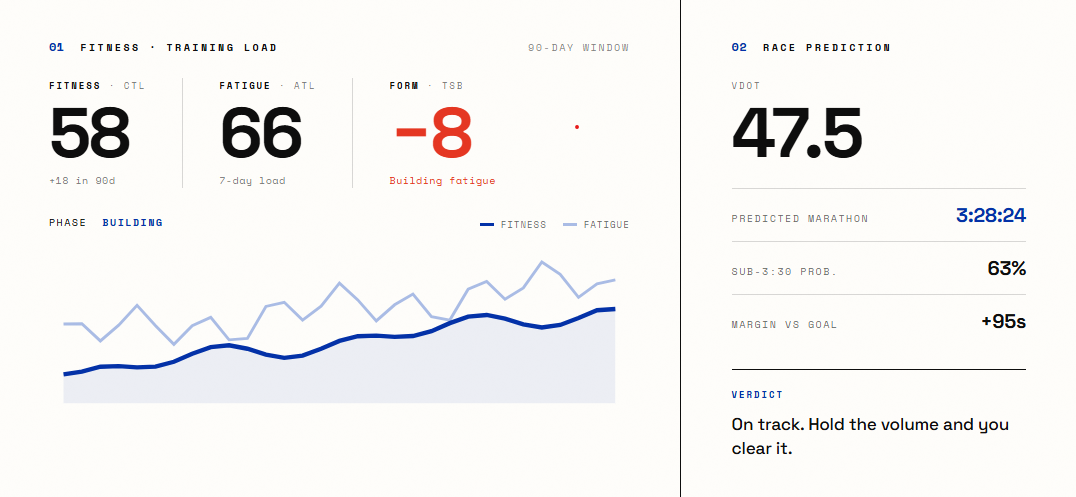
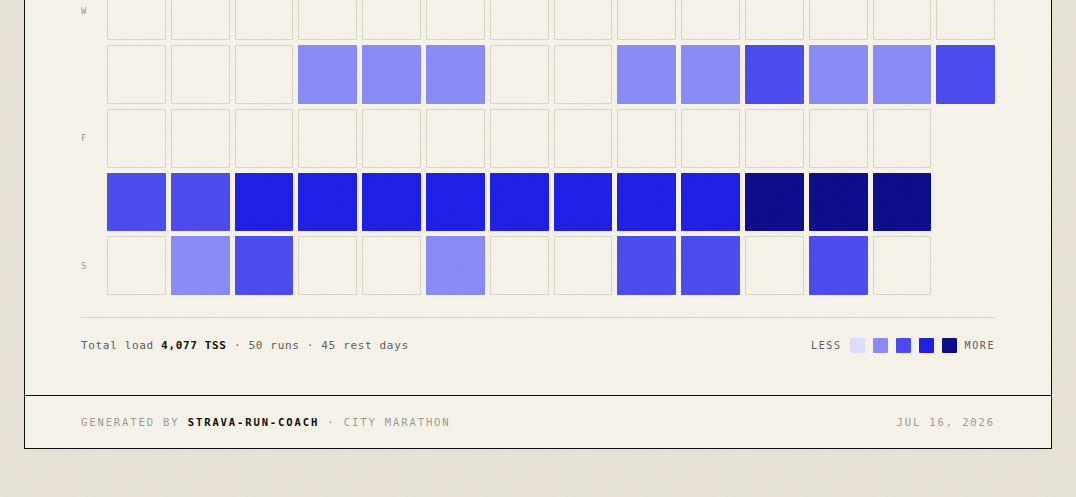
Reskin the dashboard to the Yves Klein Blue design-system tokens
Swap the example theme to the canonical token values from the athlete's
design system: IKB ultramarine #1D1DE6 (was #002FA7), warm riso paper
#EFEBDE/#F6F3EA/#E7E3D6, ink #0B0B0C, flame accent #F0400C (kept to ~5%
of the surface: the active-race dot, negative TSB, the phase marker), tint
#DEDEFB, and a five-step IKB heatmap ramp (100 -> 900). Display font
becomes Archivo (the system's grotesque), mono stays Space Mono; both stay
Google-hosted with system fallbacks so the file keeps degrading gracefully
offline.

The dashboard claimed "every colour is driven by config.theme()" but
carried 34 hardcoded rgba ink literals. Those now flow through three new
optional theme keys — ink_soft/ink_faint/hairline — with token defaults in
_theme_vars(), so an existing config.json without them keeps rendering.
No schema bump; config validation is untouched.

Also fixes a real layout bug the reshoot exposed: a 3-digit countdown
(100+ days out) overflowed the ultramarine panel at 140px; the numeral now
drops to a wide-count size the generator picks by digit count.

docs/img screenshots regenerated from sample data at the original crop
dimensions. New tests pin the contract: no rgba ink literals, no retired
hexes in emitted CSS, back-compat for legacy theme dicts.

Claude-Session: https://claude.ai/code/session_01MjFmtAetsN6RdH7ushYkuN

diff --git a/dashboard.py b/dashboard.py
@@ -5,11 +5,14 @@ external JS. The only external reference is the Google Fonts <link> for the
 display + mono typefaces (with system fallbacks). Charts are pure CSS or inline
 SVG. Open in any browser.
 
-Design: an editorial "International Klein Blue / cobalt" poster. Warm off-white
-ground, full-height cobalt countdown panel, oversized display numerals, mono
-eyebrow labels with section index numbers (01..07), hairline rules, a cobalt
-monochrome TSS heatmap, CSS bar charts, and inline-SVG line chart + probability
-ring. Every colour + font is driven by config.theme().
+Design: the Yves Klein Blue design system rendered as an editorial poster —
+IKB ultramarine (#1D1DE6) on warm riso-paper stock, near-black ink, a flame
+accent used at ~5%, hard edges and hairline rules (no soft shadows, no
+motion). Full-height ultramarine countdown panel, oversized display numerals
+(Archivo), mono eyebrow labels with section index numbers (01..07), an IKB
+monochrome TSS heatmap, CSS bar charts, and inline-SVG line chart +
+probability ring. Every colour + font is driven by config.theme(); the
+example values are the design system's tokens verbatim.
 
 Sections, in order:
   TOPBAR
@@ -79,16 +82,26 @@ def _signed(n: int, unit: str = "") -> str:
 
 
 def _theme_vars(t: dict) -> str:
-    """Build the :root CSS block from config.theme()."""
+    """Build the :root CSS block from config.theme().
+
+    Values default from config.example.json's Yves Klein Blue design-system
+    tokens (IKB ultramarine / warm paper / ink / flame accent). The three
+    ink/hairline shades are optional keys with token defaults, so a
+    pre-existing config.json without them keeps rendering unchanged.
+    """
     heat = t["heatmap"]
+    ink2 = t.get("ink_soft", "#5C5C5E")    # ds --ink-500: secondary text
+    ink3 = t.get("ink_faint", "#9A9A96")   # ds --ink-300: muted labels
+    hair = t.get("hairline", "#D9D5C7")    # ds --paper-200: hairline rules
     return (
         ":root{\n"
         f"  --klein:{t['klein']}; --klein-br:{t['klein_bright']};\n"
         f"  --paper:{t['paper']}; --paper-lt:{t['paper_light']}; --paper-dk:{t['paper_dark']};\n"
         f"  --ink:{t['ink']}; --verm:{t['vermilion']}; --white:{t['white']};\n"
+        f"  --ink-2:{ink2}; --ink-3:{ink3}; --hair:{hair};\n"
         f"  --c1:{heat[0]}; --c2:{heat[1]}; --c3:{heat[2]}; --c4:{heat[3]}; --c5:{heat[4]};\n"
         f"  --tint:{t['tint']};\n"
-        "  --rule:var(--ink); --rule-lt:rgba(10,10,10,.16);\n"
+        "  --rule:var(--ink); --rule-lt:var(--hair); --hair-inv:rgba(255,255,255,.28);\n"
         "}"
     )
 
@@ -123,47 +136,49 @@ body::before{{
 .eyebrow{{display:flex; align-items:baseline; gap:18px; margin-bottom:26px}}
 .eyebrow .idx{{font-family:'{mono}',monospace; font-size:13px; font-weight:700; color:var(--klein); letter-spacing:.04em}}
 .eyebrow .lbl{{font-family:'{mono}',monospace; font-size:11.5px; font-weight:700; text-transform:uppercase; letter-spacing:.22em; color:var(--ink)}}
-.eyebrow .rt{{margin-left:auto; font-family:'{mono}',monospace; font-size:11px; letter-spacing:.18em; color:rgba(10,10,10,.5); text-transform:uppercase}}
+.eyebrow .rt{{margin-left:auto; font-family:'{mono}',monospace; font-size:11px; letter-spacing:.18em; color:var(--ink-3); text-transform:uppercase}}
 
 .topbar{{display:flex; align-items:center; justify-content:space-between;
   padding:13px 56px; font-family:'{mono}',monospace; font-size:11px;
   letter-spacing:.24em; text-transform:uppercase}}
-.topbar .l{{font-weight:700}}
-.topbar .c{{color:rgba(10,10,10,.55); letter-spacing:.3em}}
-.topbar .r{{color:rgba(10,10,10,.55)}}
+.topbar .l{{font-weight:700; display:flex; align-items:center}}
+.topbar .l .mark{{width:9px;height:9px;background:var(--klein);margin-right:10px}}
+.topbar .c{{color:var(--ink-2); letter-spacing:.3em}}
+.topbar .r{{color:var(--ink-2)}}
 
 .mast{{display:grid; grid-template-columns:repeat(12,1fr)}}
 .mast-main{{grid-column:1/9; padding:46px 56px 40px}}
 .mast-eye{{display:flex; align-items:center; gap:14px; font-family:'{mono}',monospace;
   font-size:11.5px; letter-spacing:.24em; text-transform:uppercase; font-weight:700; margin-bottom:22px}}
 .mast-eye .dot{{width:9px;height:9px;background:var(--verm);border-radius:50%}}
-.mast-eye .sub{{color:rgba(10,10,10,.5); font-weight:400; letter-spacing:.18em}}
+.mast-eye .sub{{color:var(--ink-3); font-weight:400; letter-spacing:.18em}}
 .title{{font-size:104px; line-height:.9; font-weight:700; letter-spacing:-.04em; margin:6px 0 0}}
 .title .t1{{display:inline-block; font-size:60px; line-height:1; letter-spacing:-.02em}}
 .title .b2{{color:var(--klein)}}
 .athlete{{display:flex; align-items:baseline; gap:14px; margin-top:30px;
   font-family:'{mono}',monospace; text-transform:uppercase}}
 .athlete .nm{{font-size:15px; font-weight:700; letter-spacing:.18em}}
-.athlete .meta{{font-size:11.5px; letter-spacing:.16em; color:rgba(10,10,10,.55)}}
+.athlete .meta{{font-size:11.5px; letter-spacing:.16em; color:var(--ink-2)}}
 
 .mast-stats{{display:flex; align-items:flex-end; gap:0; margin-top:40px; border-top:1px solid var(--rule-lt); padding-top:26px}}
 .kpi{{padding-right:22px; margin-right:22px; border-right:1px solid var(--rule-lt)}}
 .kpi:last-child{{border-right:0;margin-right:0;padding-right:0}}
-.kpi .k-lbl{{font-family:'{mono}',monospace; font-size:10px; letter-spacing:.2em; text-transform:uppercase; color:rgba(10,10,10,.55); margin-bottom:9px}}
+.kpi .k-lbl{{font-family:'{mono}',monospace; font-size:10px; letter-spacing:.2em; text-transform:uppercase; color:var(--ink-2); margin-bottom:9px}}
 .kpi .k-val{{font-size:30px; font-weight:700; letter-spacing:-.025em; line-height:1; white-space:nowrap}}
-.kpi .k-val small{{font-size:13px; font-weight:500; color:rgba(10,10,10,.55); letter-spacing:0; margin-left:3px}}
+.kpi .k-val small{{font-size:13px; font-weight:500; color:var(--ink-2); letter-spacing:0; margin-left:3px}}
 .ring-wrap{{display:flex; align-items:center; gap:12px}}
 .ring{{width:64px;height:64px;flex:none}}
 .ring .rtxt{{font-family:'{disp}'; font-weight:700; font-size:24px; fill:var(--ink)}}
-.ring-cap{{font-family:'{mono}',monospace; font-size:9px; letter-spacing:.14em; text-transform:uppercase; color:rgba(10,10,10,.55); line-height:1.5; max-width:72px}}
+.ring-cap{{font-family:'{mono}',monospace; font-size:9px; letter-spacing:.14em; text-transform:uppercase; color:var(--ink-2); line-height:1.5; max-width:72px}}
 
-.mast-count{{grid-column:9/13; background:var(--klein); color:#fff; padding:44px 48px 40px;
+.mast-count{{grid-column:9/13; background:var(--klein); color:var(--white); padding:44px 48px 40px;
   display:flex; flex-direction:column; justify-content:space-between}}
 .mast-count .c-eye{{font-family:'{mono}',monospace; font-size:11px; letter-spacing:.26em; text-transform:uppercase; color:var(--tint)}}
 .count-big{{display:flex; align-items:flex-start; gap:10px; margin-top:14px}}
 .count-big .num{{font-size:140px; line-height:.82; font-weight:700; letter-spacing:-.05em}}
+.count-big .num.wide{{font-size:104px; line-height:1.1}}  /* 3-digit countdowns */
 .count-big .days{{font-family:'{mono}',monospace; font-size:13px; letter-spacing:.22em; text-transform:uppercase; color:var(--tint); margin-top:14px}}
-.race-day{{margin-top:30px; border-top:1px solid rgba(255,255,255,.28); padding-top:18px; display:flex; justify-content:space-between; align-items:baseline}}
+.race-day{{margin-top:30px; border-top:1px solid var(--hair-inv); padding-top:18px; display:flex; justify-content:space-between; align-items:baseline}}
 .race-day .rd-l{{font-family:'{mono}',monospace; font-size:10.5px; letter-spacing:.2em; text-transform:uppercase; color:var(--tint)}}
 .race-day .rd-v{{font-size:30px; font-weight:700; letter-spacing:-.02em}}
 .race-day .rd-v small{{font-family:'{mono}',monospace; font-size:11px; font-weight:400; color:var(--tint); letter-spacing:.16em; margin-left:8px}}
@@ -178,42 +193,42 @@ body::before{{
 .fit-grid{{display:flex; gap:0; margin-bottom:30px}}
 .fit-stat{{padding-right:40px; margin-right:40px; border-right:1px solid var(--rule-lt)}}
 .fit-stat:last-child{{border:0;margin:0;padding:0}}
-.fit-stat .fs-lbl{{font-family:'{mono}',monospace; font-size:10.5px; letter-spacing:.18em; text-transform:uppercase; color:rgba(10,10,10,.55); margin-bottom:12px}}
+.fit-stat .fs-lbl{{font-family:'{mono}',monospace; font-size:10.5px; letter-spacing:.18em; text-transform:uppercase; color:var(--ink-2); margin-bottom:12px}}
 .fit-stat .fs-lbl b{{color:var(--ink)}}
 .fit-stat .fs-val{{font-size:78px; line-height:.86; font-weight:700; letter-spacing:-.03em}}
 .fit-stat .fs-val.neg{{color:var(--verm)}}
-.fit-stat .fs-sub{{font-family:'{mono}',monospace; font-size:11px; letter-spacing:.06em; color:rgba(10,10,10,.55); margin-top:10px}}
+.fit-stat .fs-sub{{font-family:'{mono}',monospace; font-size:11px; letter-spacing:.06em; color:var(--ink-2); margin-top:10px}}
 .chart-head{{display:flex; justify-content:space-between; align-items:baseline; margin-bottom:10px}}
 .chart-head .ph{{font-family:'{mono}',monospace; font-size:11px; letter-spacing:.16em; text-transform:uppercase}}
 .chart-head .ph b{{color:var(--klein)}}
-.legend-inline{{display:flex; gap:18px; font-family:'{mono}',monospace; font-size:10px; letter-spacing:.12em; text-transform:uppercase; color:rgba(10,10,10,.6)}}
+.legend-inline{{display:flex; gap:18px; font-family:'{mono}',monospace; font-size:10px; letter-spacing:.12em; text-transform:uppercase; color:var(--ink-2)}}
 .legend-inline span{{display:flex;align-items:center;gap:7px}}
 .legend-inline i{{width:16px;height:3px;display:inline-block}}
 .line-chart{{width:100%; height:auto; display:block}}
 
 .pred-vdot{{font-size:78px; font-weight:700; letter-spacing:-.03em; line-height:.9}}
-.pred-vdot small{{font-size:16px; font-weight:500; color:rgba(10,10,10,.55); letter-spacing:.04em}}
+.pred-vdot small{{font-size:16px; font-weight:500; color:var(--ink-2); letter-spacing:.04em}}
 .pred-row{{display:flex; justify-content:space-between; align-items:baseline; padding:15px 0; border-top:1px solid var(--rule-lt)}}
-.pred-row .pr-l{{font-family:'{mono}',monospace; font-size:11px; letter-spacing:.16em; text-transform:uppercase; color:rgba(10,10,10,.6)}}
+.pred-row .pr-l{{font-family:'{mono}',monospace; font-size:11px; letter-spacing:.16em; text-transform:uppercase; color:var(--ink-2)}}
 .pred-row .pr-v{{font-size:22px; font-weight:700; letter-spacing:-.01em}}
 .pred-row .pr-v.blue{{color:var(--klein)}}
 .verdict{{margin-top:24px; padding-top:22px; border-top:1px solid var(--ink); font-size:19px; line-height:1.4; font-weight:500; letter-spacing:-.01em}}
 .verdict .vk{{font-family:'{mono}',monospace; font-size:10px; letter-spacing:.22em; text-transform:uppercase; color:var(--klein); display:block; margin-bottom:12px; font-weight:700}}
 
 .heat-wrap{{display:flex; flex-direction:column}}
-.heat-months{{display:grid; grid-template-columns:repeat(13,1fr); margin:0 0 8px 26px; font-family:'{mono}',monospace; font-size:10px; letter-spacing:.14em; color:rgba(10,10,10,.5)}}
+.heat-months{{display:grid; grid-template-columns:repeat(13,1fr); margin:0 0 8px 26px; font-family:'{mono}',monospace; font-size:10px; letter-spacing:.14em; color:var(--ink-3)}}
 .heat-body{{display:flex; gap:8px}}
-.heat-days{{display:grid; grid-template-rows:repeat(7,1fr); gap:5px; font-family:'{mono}',monospace; font-size:9px; letter-spacing:.1em; color:rgba(10,10,10,.4); width:18px}}
+.heat-days{{display:grid; grid-template-rows:repeat(7,1fr); gap:5px; font-family:'{mono}',monospace; font-size:9px; letter-spacing:.1em; color:var(--ink-3); width:18px}}
 .heat-days span{{display:flex;align-items:center;height:100%}}
 .heat-grid{{display:grid; grid-template-rows:repeat(7,1fr); grid-auto-flow:column; gap:5px; flex:1}}
 .hc{{aspect-ratio:1; border-radius:1px}}
-.hc.l0{{background:transparent; box-shadow:inset 0 0 0 1px rgba(10,10,10,.10)}}
+.hc.l0{{background:transparent; box-shadow:inset 0 0 0 1px var(--hair)}}
 .hc.l1{{background:var(--c1)}} .hc.l2{{background:var(--c2)}} .hc.l3{{background:var(--c3)}}
 .hc.l4{{background:var(--c4)}} .hc.l5{{background:var(--c5)}}
 .heat-foot{{display:flex; align-items:center; justify-content:space-between; margin-top:22px; padding-top:20px; border-top:1px solid var(--rule-lt)}}
-.heat-foot .note{{font-family:'{mono}',monospace; font-size:11px; letter-spacing:.06em; color:rgba(10,10,10,.6)}}
+.heat-foot .note{{font-family:'{mono}',monospace; font-size:11px; letter-spacing:.06em; color:var(--ink-2)}}
 .heat-foot .note b{{color:var(--ink)}}
-.heat-legend{{display:flex; align-items:center; gap:8px; font-family:'{mono}',monospace; font-size:10px; letter-spacing:.16em; text-transform:uppercase; color:rgba(10,10,10,.55)}}
+.heat-legend{{display:flex; align-items:center; gap:8px; font-family:'{mono}',monospace; font-size:10px; letter-spacing:.16em; text-transform:uppercase; color:var(--ink-2)}}
 .heat-legend .sw{{width:15px;height:15px;border-radius:1px}}
 
 .mile-chart{{display:flex; align-items:flex-end; gap:10px; height:230px; margin-top:8px}}
@@ -222,8 +237,8 @@ body::before{{
 .bar{{width:100%; max-width:34px; display:flex; flex-direction:column; justify-content:flex-end}}
 .seg.easy{{background:var(--c3)}}
 .seg.long{{background:var(--klein)}}
-.bar-wk{{font-family:'{mono}',monospace; font-size:9.5px; color:rgba(10,10,10,.45); margin-top:9px; letter-spacing:.08em}}
-.mile-foot{{display:flex; gap:24px; margin-top:22px; padding-top:18px; border-top:1px solid var(--rule-lt); font-family:'{mono}',monospace; font-size:10.5px; letter-spacing:.1em; text-transform:uppercase; color:rgba(10,10,10,.6)}}
+.bar-wk{{font-family:'{mono}',monospace; font-size:9.5px; color:var(--ink-3); margin-top:9px; letter-spacing:.08em}}
+.mile-foot{{display:flex; gap:24px; margin-top:22px; padding-top:18px; border-top:1px solid var(--rule-lt); font-family:'{mono}',monospace; font-size:10.5px; letter-spacing:.1em; text-transform:uppercase; color:var(--ink-2)}}
 .mile-foot span{{display:flex;align-items:center;gap:8px}}
 .mile-foot i{{width:13px;height:13px;display:inline-block;border-radius:1px}}
 
@@ -233,23 +248,23 @@ body::before{{
 .cons-cell:nth-child(1),.cons-cell:nth-child(2){{padding-top:4px}}
 .cons-cell:nth-child(3),.cons-cell:nth-child(4){{border-bottom:0}}
 .cons-cell .c-val{{font-size:52px; font-weight:700; letter-spacing:-.03em; line-height:.9}}
-.cons-cell .c-val small{{font-size:16px; font-weight:500; color:rgba(10,10,10,.55)}}
-.cons-cell .c-lbl{{font-family:'{mono}',monospace; font-size:10px; letter-spacing:.16em; text-transform:uppercase; color:rgba(10,10,10,.55); margin-top:12px; line-height:1.5}}
+.cons-cell .c-val small{{font-size:16px; font-weight:500; color:var(--ink-2)}}
+.cons-cell .c-lbl{{font-family:'{mono}',monospace; font-size:10px; letter-spacing:.16em; text-transform:uppercase; color:var(--ink-2); margin-top:12px; line-height:1.5}}
 
 .eff-table{{width:100%; border-collapse:collapse}}
 .eff-table td{{padding:17px 0; border-top:1px solid var(--rule-lt); vertical-align:baseline}}
 .eff-table tr:first-child td{{border-top:0}}
-.ev-idx{{font-family:'{mono}',monospace; font-size:11px; color:rgba(10,10,10,.4); width:38px; font-weight:700}}
+.ev-idx{{font-family:'{mono}',monospace; font-size:11px; color:var(--ink-3); width:38px; font-weight:700}}
 .ev-dist{{font-family:'{mono}',monospace; font-size:13px; font-weight:700; letter-spacing:.12em; width:78px}}
 .ev-time{{font-size:30px; font-weight:700; letter-spacing:-.02em}}
-.ev-time.muted{{font-size:30px; color:rgba(10,10,10,.25)}}
-.ev-pace{{font-family:'{mono}',monospace; font-size:12px; color:rgba(10,10,10,.55); text-align:right; letter-spacing:.04em}}
-.ev-date{{font-family:'{mono}',monospace; font-size:11px; color:rgba(10,10,10,.45); text-align:right; width:74px; letter-spacing:.08em}}
+.ev-time.muted{{font-size:30px; color:var(--ink-3)}}
+.ev-pace{{font-family:'{mono}',monospace; font-size:12px; color:var(--ink-2); text-align:right; letter-spacing:.04em}}
+.ev-date{{font-family:'{mono}',monospace; font-size:11px; color:var(--ink-3); text-align:right; width:74px; letter-spacing:.08em}}
 
 .plan-top{{display:flex; justify-content:space-between; align-items:baseline; margin-bottom:30px}}
 .plan-top .pt-wk{{font-size:30px; font-weight:700; letter-spacing:-.02em; white-space:nowrap}}
-.plan-top .pt-wk small{{font-family:'{mono}',monospace; font-size:12px; font-weight:400; color:rgba(10,10,10,.55); letter-spacing:.06em}}
-.plan-top .pt-mi{{font-family:'{mono}',monospace; font-size:11.5px; line-height:1.7; letter-spacing:.08em; text-transform:uppercase; text-align:right; color:rgba(10,10,10,.55); white-space:nowrap}}
+.plan-top .pt-wk small{{font-family:'{mono}',monospace; font-size:12px; font-weight:400; color:var(--ink-2); letter-spacing:.06em}}
+.plan-top .pt-mi{{font-family:'{mono}',monospace; font-size:11.5px; line-height:1.7; letter-spacing:.08em; text-transform:uppercase; text-align:right; color:var(--ink-2); white-space:nowrap}}
 .plan-top .pt-mi b{{color:var(--ink); font-size:13px}}
 .phases{{display:grid; gap:6px}}
 .phase .ph-bar{{height:10px; background:var(--c1)}}
@@ -257,18 +272,18 @@ body::before{{
 .phase.cur .ph-bar{{background:var(--klein); position:relative}}
 .phase.cur .ph-bar::after{{content:"";position:absolute;left:36%;top:-4px;bottom:-4px;width:2px;background:var(--verm)}}
 .phase .ph-lbl{{font-family:'{mono}',monospace; font-size:11px; letter-spacing:.14em; text-transform:uppercase; margin-top:12px; font-weight:700}}
-.phase .ph-wk{{font-family:'{mono}',monospace; font-size:9.5px; letter-spacing:.1em; color:rgba(10,10,10,.45); margin-top:5px}}
+.phase .ph-wk{{font-family:'{mono}',monospace; font-size:9.5px; letter-spacing:.1em; color:var(--ink-3); margin-top:5px}}
 .phase.cur .ph-lbl{{color:var(--klein)}}
-.phase:not(.cur):not(.done) .ph-lbl{{color:rgba(10,10,10,.4)}}
+.phase:not(.cur):not(.done) .ph-lbl{{color:var(--ink-3)}}
 .wk-prog{{margin-top:32px; padding-top:24px; border-top:1px solid var(--rule-lt)}}
 .wk-prog .wp-head{{display:flex;justify-content:space-between;align-items:baseline;margin-bottom:12px}}
-.wk-prog .wp-l{{font-family:'{mono}',monospace; font-size:10.5px; letter-spacing:.16em; text-transform:uppercase; color:rgba(10,10,10,.6)}}
+.wk-prog .wp-l{{font-family:'{mono}',monospace; font-size:10.5px; letter-spacing:.16em; text-transform:uppercase; color:var(--ink-2)}}
 .wk-prog .wp-v{{font-family:'{mono}',monospace; font-size:12px; font-weight:700}}
 .wk-prog .wp-track{{height:14px; background:var(--c1); position:relative}}
 .wk-prog .wp-fill{{height:100%; background:var(--klein)}}
 
 .foot{{display:flex; justify-content:space-between; align-items:center; padding:20px 56px;
-  font-family:'{mono}',monospace; font-size:10.5px; letter-spacing:.18em; text-transform:uppercase; color:rgba(10,10,10,.5)}}
+  font-family:'{mono}',monospace; font-size:10.5px; letter-spacing:.18em; text-transform:uppercase; color:var(--ink-3)}}
 .foot .fl b{{color:var(--ink)}}
 
 @media (max-width:760px){{
@@ -292,7 +307,7 @@ body::before{{
 def _topbar() -> str:
     return """  <!-- TOPBAR -->
   <div class="topbar band">
-    <div class="l">strava-run-coach</div>
+    <div class="l"><span class="mark"></span>strava-run-coach</div>
     <div class="c">Training Report</div>
   </div>"""
 
@@ -305,6 +320,8 @@ def _masthead(race: dict) -> str:
     pred = race.get("predicted_time", "N/A")
     pct = race.get("probability_pct", 0)
     days = race.get("days_to_race", 0)
+    # 3+ digits at 140px overflow the countdown panel; drop to the wide size.
+    num_cls = " wide" if len(str(days)) > 2 else ""
     race_day = race.get("race_day_str", "")
     weekday = race.get("race_weekday", "")
     athlete = race.get("athlete_name", "Athlete").upper()
@@ -351,7 +368,7 @@ def _masthead(race: dict) -> str:
     <aside class="mast-count">
       <div>
         <div class="c-eye">Countdown</div>
-        <div class="count-big"><span class="num">{days}</span><span class="days">days<br>to race</span></div>
+        <div class="count-big"><span class="num{num_cls}">{days}</span><span class="days">days<br>to race</span></div>
       </div>
       <div class="race-day">
         <span class="rd-l">Race day</span>
@@ -461,7 +478,7 @@ def _fitness_prediction_split(fit: dict, race: dict) -> str:
     <!-- RACE PREDICTION -->
     <div class="col">
       <div class="eyebrow"><span class="idx">02</span><span class="lbl">Race Prediction</span></div>
-      <div class="fs-lbl mono" style="font-size:10.5px;letter-spacing:.18em;text-transform:uppercase;color:rgba(10,10,10,.55);margin-bottom:10px">VDOT</div>
+      <div class="fs-lbl mono" style="font-size:10.5px;letter-spacing:.18em;text-transform:uppercase;color:var(--ink-2);margin-bottom:10px">VDOT</div>
       <div class="pred-vdot">{vdot}</div>
       <div style="margin-top:26px">
         <div class="pred-row"><span class="pr-l">Predicted {dist_label}</span><span class="pr-v blue">{pred}</span></div>

diff --git a/tests/test_dashboard_theme.py b/tests/test_dashboard_theme.py
@@ -1,0 +1,59 @@
+"""Tests for the dashboard theme plumbing.
+
+Every colour must flow through config.theme() -> _theme_vars(): no hardcoded
+ink rgba() literals and none of the retired pre-design-system hexes may
+survive in the emitted CSS. _theme_vars/_build_css are pure functions of the
+theme dict, so this needs no data files.
+"""
+
+import unittest
+
+import config
+from dashboard import _build_css, _theme_vars
+
+# Palette values retired by the Yves Klein Blue design-system reskin.
+RETIRED_HEXES = ("#002FA7", "#0047FF", "#E5341F", "#F7F6F1", "#FFFEFB",
+                 "#F1F0EA", "#B9C6EE", "#0A0A0A")
+
+
+class TestThemeVars(unittest.TestCase):
+    def test_all_vars_emitted(self):
+        css = _theme_vars(config.theme())
+        for var in ("--klein:", "--paper-lt:", "--ink:", "--ink-2:", "--ink-3:",
+                    "--hair:", "--hair-inv:", "--verm:", "--tint:", "--c1:",
+                    "--c5:", "--rule-lt:var(--hair)"):
+            self.assertIn(var, css)
+
+    def test_example_theme_is_design_system(self):
+        css = _theme_vars(config.theme())
+        self.assertIn("#1D1DE6", css)   # --ikb-500
+        self.assertIn("#F0400C", css)   # --flame-500
+        self.assertIn("#0B0B8A", css)   # heatmap top = --ikb-900
+
+    def test_old_configs_without_new_keys_still_render(self):
+        legacy = dict(config.theme())
+        for k in ("ink_soft", "ink_faint", "hairline"):
+            legacy.pop(k, None)
+        css = _theme_vars(legacy)
+        self.assertIn("--ink-2:#5C5C5E", css)   # token defaults kick in
+        self.assertIn("--hair:#D9D5C7", css)
+
+
+class TestBuildCss(unittest.TestCase):
+    def test_no_hardcoded_ink_rgba(self):
+        css = _build_css(config.theme())
+        self.assertNotIn("rgba(10,10,10", css)
+
+    def test_no_retired_palette_hexes(self):
+        css = _build_css(config.theme())
+        for hexval in RETIRED_HEXES:
+            self.assertNotIn(hexval.lower(), css.lower())
+
+    def test_fonts_come_from_theme(self):
+        css = _build_css(config.theme())
+        self.assertIn(config.theme()["display_font"], css)
+        self.assertIn(config.theme()["mono_font"], css)
+
+
+if __name__ == "__main__":
+    unittest.main()